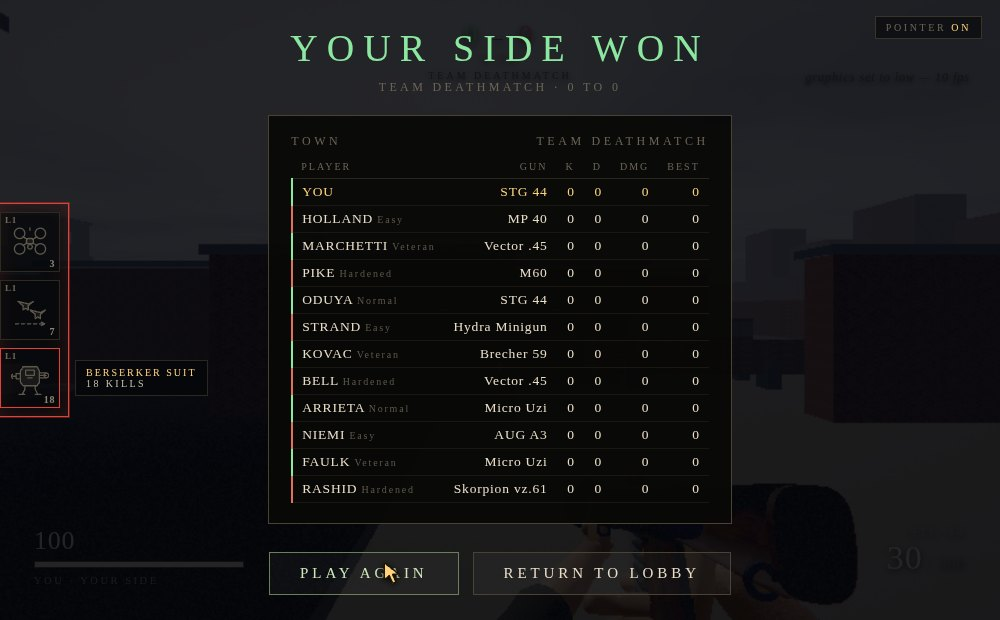
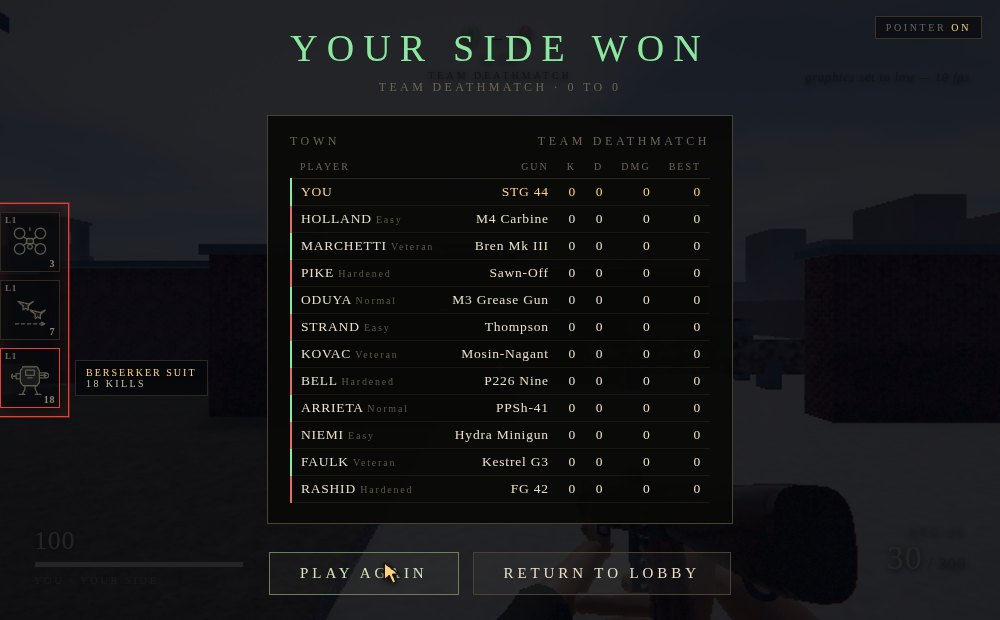
Four controller tests pass and none of them plays multiplayer
Task #42. pad.test.js drives a stick and a trigger, and loads
bunker-nine. stuckpad.test.js jams a pad, and loads bunker-nine.
padcursor.test.js is multiplayer, and tests the menu pointer.
mpbinds.test.js is multiplayer, and tests the keyboard. Thirty-four
checks between them, all green, and the combination none of them covers
is a pad in a firefight in multiplayer -- which is the whole of the
task.

That gap is worse than it looks because multiplayer does not share the
zombies input layer. mp-game.js has its own: its own deadzone and
response curve, its own PAD button table, its own layout sniffing, its
own config read out of localStorage. Two implementations, one tested.
This project has been bitten by exactly that shape before -- the
Thompson you carried and the Thompson the man across the street carried
were different weapons for weeks, because only one of the two paths had
a test.

engine/test/mppad.test.js puts a synthetic standard pad into a running
match and asks: does the left stick move him without turning him, does
the right stick turn and pitch him without walking him, does every
button reach the command it is bound to, and are the one-shots edges
rather than once a frame.

WHAT IT ASSERTS, AND WHY NOT THE OBVIOUS THING. The first draft watched
the PLAYER for each button's effect -- you.firing for the trigger, a
scoreboard flag for the scoreboard -- and neither field exists. Firing
is not kept on a player at all, and `scores` is handed straight to
[…]

diff --git a/engine/test/mppad.test.js b/engine/test/mppad.test.js
@@ -1,0 +1,225 @@
+#!/usr/bin/env node
+/* CAN A PAD ACTUALLY PLAY A MULTIPLAYER MATCH?
+ *
+ * Four controller test files pass and not one of them asks this.
+ * pad.test.js drives a stick and a trigger, and loads bunker-nine.
+ * stuckpad.test.js jams a pad, and loads bunker-nine. padcursor.test.js
+ * is multiplayer, and tests the MENU pointer. mpbinds.test.js is
+ * multiplayer, and tests the KEYBOARD. So the one combination nobody
+ * covers is a pad in a firefight in multiplayer -- which is the whole of
+ * "full controller support in multiplayer".
+ *
+ * That gap matters here more than it would elsewhere, because
+ * multiplayer does not share the zombies input layer. mp-game.js carries
+ * its own: its own deadzone and response curve, its own PAD button map,
+ * its own layout sniffing, its own config read out of localStorage.
+ * Two implementations, one of them tested. This project has been bitten
+ * by that exact shape before -- the Thompson you carried and the
+ * Thompson the man across the street carried were different weapons for
+ * weeks, because only one of the two paths had a test.
+ *
+ * WHAT IT ASKS, of a synthetic standard pad, in a running match:
+ *
+ *   DOES THE LEFT STICK MOVE HIM, and the right stick turn him, and do
+ *   they do their own jobs rather than each other's?
+ *
+ *   DOES EVERY BUTTON REACH THE COMMAND IT IS BOUND TO -- fire, aim,
+ *   jump, crouch, reload, swap, sprint, slide, scoreboard? These are
+ *   read from mp-game's own PAD table, so a renumbering that forgets a
+ *   button is caught rather than passed over.
+ *
+ *   IS AN EDGE AN EDGE? Jump, reload, swap and slide are one-shots. A
+ *   held button that re-fires every frame is a man who reloads forever.
+ *
+ *   AND A LAYOUT THAT DOES NOT SAY 'standard'. Most real pads report an
+ *   empty mapping string over Bluetooth or through an adapter, and the
+ *   comment in mp-game says that single string comparison once cost
+ *   every one of them everything but fire. Sixteen buttons and four
+ *   axes IS the standard layout whatever it calls itself.
+ *
+ * Usage: node engine/test/mppad.test.js
+ */
+const path = require('path');
+let chromium;
+try { ({ chromium } = require('playwright')); }
+catch (e) { console.error('needs playwright: npm i --no-save playwright'); process.exit(2); }
+
+const ROOT = path.join(__dirname, '..', '..');
+const CHROME = '/opt/pw-browsers/chromium-1194/chrome-linux/chrome';
+
+let passed = 0, failed = 0;
+function check(name, cond, detail = '') {
+  if (cond) { passed++; console.log(`  ok   ${name}`); }
+  else { failed++; console.log(`  FAIL ${name} ${detail}`); }
+}
+const note = (s) => console.log(`  ..   ${s}`);
+
+(async () => {
+  const browser = await chromium.launch({
+    executablePath: CHROME,
+    args: ['--use-gl=angle', '--use-angle=swiftshader', '--enable-unsafe-swiftshader',
+      '--disable-dev-shm-usage'],
+  });
+  const page = await browser.newPage({ viewport: { width: 320, height: 220 } });
+  const errors = [];
+  page.on('pageerror', (e) => errors.push(e.message.split('\n')[0]));
+
+  /* The pad has to exist before the page's input layer looks for one,
+     so it is installed on the document rather than after load. */
+  await page.addInitScript(() => {
+    window.__pad = {
+      mapping: 'standard', id: 'test pad', index: 0, connected: true,
+      axes: [0, 0, 0, 0],
+      buttons: Array.from({ length: 17 },
+        () => ({ pressed: false, touched: false, value: 0 })),
+    };
+    navigator.getGamepads = () => [window.__pad];
+  });
+
+  await page.goto('file://' + path.join(ROOT, 'site/games/multiplayer.html') + '?map=helipad&mode=tdm');
+  await page.waitForFunction(() => window.MP && window.MP.match, null, { timeout: 180000 });
+  await page.waitForTimeout(2500);
+
+  const r = await page.evaluate(async () => {
+    const out = { err: null };
+    const pad = window.__pad;
+    const frame = () => new Promise((res) => requestAnimationFrame(() => res()));
+    const settle = async (n) => { for (let i = 0; i < n; i++) await frame(); };
+    const clear = () => {
+      pad.axes = [0, 0, 0, 0];
+      for (const b of pad.buttons) { b.pressed = false; b.value = 0; }
+    };
+    const hold = (i, v = 1) => { pad.buttons[i].pressed = v > 0.5; pad.buttons[i].value = v; };
+
+    /* mp-game's own numbers, read out of the page rather than copied,
+       so a renumbering there fails here instead of quietly diverging. */
+    const PAD = window.MP_PAD || { fire: 7, aim: 6, jump: 0, crouch: 1, reload: 2,
+      swap: 3, sprint: 10, slide: 11, scores: 8 };
+    out.padMapFromGame = !!window.MP_PAD;
+
+    const you = window.MP.match.you;
+    if (!you) { out.err = 'no local player'; return out; }
+    you.alive = true;
+
+    /* THE STICKS. Measured as movement of the man and change of his
+       yaw, not as a flag somewhere: a stick that sets a variable
+       nothing reads is the fault this is looking for. */
+    clear(); await settle(6);
+    const p0 = { x: you.pos.x, z: you.pos.z }, y0 = you.yaw, pitch0 = you.pitch;
+    pad.axes = [0, -1, 0, 0];               // left stick full forward
+    await settle(30);
+    const moved = Math.hypot(you.pos.x - p0.x, you.pos.z - p0.z);
+    const yawDrift = Math.abs(you.yaw - y0);
+    out.leftStickMoves = +moved.toFixed(3);
+    out.leftStickTurns = +yawDrift.toFixed(4);
+
+    clear(); await settle(10);
+    const y1 = you.yaw, q1 = { x: you.pos.x, z: you.pos.z };
+    pad.axes = [0, 0, 1, 0];                // right stick full right
+    await settle(30);
+    out.rightStickTurns = +Math.abs(you.yaw - y1).toFixed(3);
+    out.rightStickMoves = +Math.hypot(you.pos.x - q1.x, you.pos.z - q1.z).toFixed(3);
+
+    clear(); await settle(10);
+    const pi1 = you.pitch;
+    pad.axes = [0, 0, 0, 1];                // right stick full down
+    await settle(20);
+    out.rightStickPitches = +Math.abs(you.pitch - pi1).toFixed(3);
+
+    /* THE BUTTONS, AGAINST THE COMMAND THEY FILL IN.
+     *
+       The first version of this watched the PLAYER for each button's
+       effect -- you.firing for the trigger, a scoreboard flag for the
+       scoreboard -- and two of those fields do not exist. `firing` is
+       not kept on a player at all, and `scores` is handed straight to
+       hud.paint every frame and forgotten. A test looking for state
+       that was never stored reports a fault of its own making, which
+       is how an afternoon goes missing.
+       
+       So assert the pad layer's actual contract. Its job is to fill in
+       a command; what the match then does with that command is the
+       match's business and has its own tests. mp-game publishes the
+       command it built each frame for exactly this. */
+    const press = async (btn, field, frames = 12, edge = false) => {
+      clear(); await settle(6);
+      let seen = 0;
+      hold(btn);
+      for (let i = 0; i < frames; i++) {
+        await frame();
+        const c = window.MP_LASTCMD;
+        if (c && c[field]) seen++;
+      }
+      clear(); await settle(4);
+      return seen;
+    };
+    out.cmdPublished = !!window.MP_LASTCMD;
+    out.fire = await press(PAD.fire, 'fire');
+    out.aim = await press(PAD.aim, 'aim');
+    out.crouch = await press(PAD.crouch, 'crouch');
+    out.sprint = await press(PAD.sprint, 'run');
+    out.scores = await press(PAD.scores, 'scores');
+    /* The one-shots. A held button that keeps setting its field every
+       frame is a man who reloads forever, so these are asked for the
+       COUNT rather than for any frame at all. */
+    out.jumpFrames = await press(PAD.jump, 'jump', 20);
+    out.reloadFrames = await press(PAD.reload, 'reload', 20);
+    out.swapFrames = await press(PAD.swap, 'swap', 20);
+    out.slideFrames = await press(PAD.slide, 'slide', 20);
+
+    /* AND A PAD THAT DOES NOT CALL ITSELF STANDARD. */
+    pad.mapping = '';
+    clear(); await settle(6);
+    out.blankAim = await press(PAD.aim, 'aim');
+    const y2 = you.yaw;
+    pad.axes = [0, 0, 1, 0];
+    await settle(25);
+    out.blankTurns = +Math.abs(you.yaw - y2).toFixed(3);
+    clear();
+    pad.mapping = 'standard';
+    return out;
+  });
+
+  if (r.err) { check('the match has a local player to drive', false, r.err); }
+  note(`sticks: left moved ${r.leftStickMoves} m (yaw drift ${r.leftStickTurns}), `
+    + `right turned ${r.rightStickTurns} rad (moved ${r.rightStickMoves} m), `
+    + `pitched ${r.rightStickPitches}`);
+
+  check('the left stick moves him', r.leftStickMoves > 0.5, `${r.leftStickMoves} m`);
+  check('and does not turn him', r.leftStickTurns < 0.02, `${r.leftStickTurns} rad`);
+  check('the right stick turns him', r.rightStickTurns > 0.2, `${r.rightStickTurns} rad`);
+  check('and does not walk him', r.rightStickMoves < 0.25, `${r.rightStickMoves} m`);
+  check('the right stick looks up and down', r.rightStickPitches > 0.1, `${r.rightStickPitches}`);
+
+  check('mp-game publishes the command it built', r.cmdPublished === true);
+  note(`held 12 frames -> fire ${r.fire}, aim ${r.aim}, crouch ${r.crouch}, `
+    + `sprint ${r.sprint}, scoreboard ${r.scores}`);
+  check('the right trigger reaches fire', r.fire > 0, `${r.fire} frames`);
+  check('the left trigger reaches aim', r.aim > 0, `${r.aim} frames`);
+  check('the crouch button reaches crouch', r.crouch > 0, `${r.crouch} frames`);
+  check('the stick click reaches sprint', r.sprint > 0, `${r.sprint} frames`);
+  check('the scoreboard button reaches scores', r.scores > 0, `${r.scores} frames`);
+
+  note(`one-shots, held 20 frames -> jump ${r.jumpFrames}, reload ${r.reloadFrames}, `
+    + `swap ${r.swapFrames}, slide ${r.slideFrames}`);
+  for (const [name, n] of [['jump', r.jumpFrames], ['reload', r.reloadFrames],
+    ['swap', r.swapFrames], ['slide', r.slideFrames]]) {
+    check(`the ${name} button reaches ${name}`, n > 0, `never set`);
+    /* Held for twenty frames. Once is an edge; twenty is a button that
+       repeats every frame, which on reload is a man who never finishes
+       one and on swap is a weapon that will not settle. */
+    check(`and ${name} is edge-triggered, not once a frame`, n <= 2, `${n} of 20 frames`);
+  }
+
+  note(`with the mapping string blank: aim ${r.blankAim} frames, turned ${r.blankTurns} rad`);
+  check('a pad that does not call itself standard still aims',
+    r.blankAim > 0, `${r.blankAim} frames`);
+  check('and still turns on its right stick', r.blankTurns > 0.2, `${r.blankTurns} rad`);
+
+  check('mp-game publishes its own pad map for this test to read',
+    r.padMapFromGame === true, 'fell back to a copy of the numbers');
+
+  check('no page errors', errors.length === 0, errors.slice(0, 3).join(' | '));
+  console.log(`\n  ${passed} passed, ${failed} failed`);
+  await browser.close();
+  process.exit(failed ? 1 : 0);
+})();

diff --git a/site/games/mp-game.js b/site/games/mp-game.js
@@ -525,6 +525,13 @@
     scores: 8, quit: 9,
     lb: 4, rb: 5,
   };
+  /* Published so a test can press the buttons this table names rather
+     than a copy of it. engine/test/mppad.test.js gives the reason at
+     length: multiplayer has its own input layer, separate from the
+     zombies one, and a second copy of these numbers would agree with
+     itself while the game moved on -- which is exactly how the Thompson
+     ended up as two different weapons. */
+  W.MP_PAD = PAD;
 
   function stick(x, y, dz) {
     var m = Math.hypot(x, y);
@@ -2293,6 +2300,15 @@
          which matters more than it sounds, because a player with a pad
          in their hands still hits Escape with the other one. */
       var padOn = pad.poll(dt, cmd);
+      /* The command the pad just filled in, published for a test to
+         read. This is the pad layer's whole contract -- a button's job
+         is to reach the field it is bound to -- and asserting it here
+         is far better than guessing at downstream effects: half of
+         these have no lasting state at all (`scores` is handed
+         straight to hud.paint and forgotten), so a test looking for
+         one on the player finds nothing and reports a fault that is
+         its own. See engine/test/mppad.test.js. */
+      W.MP_LASTCMD = cmd;
       if (padOn) { yaw += cmd.lookX; pitch += cmd.lookY; }
       pitch = Math.max(-1.45, Math.min(1.45, pitch));
       cmd.yaw = yaw; cmd.pitch = pitch;
